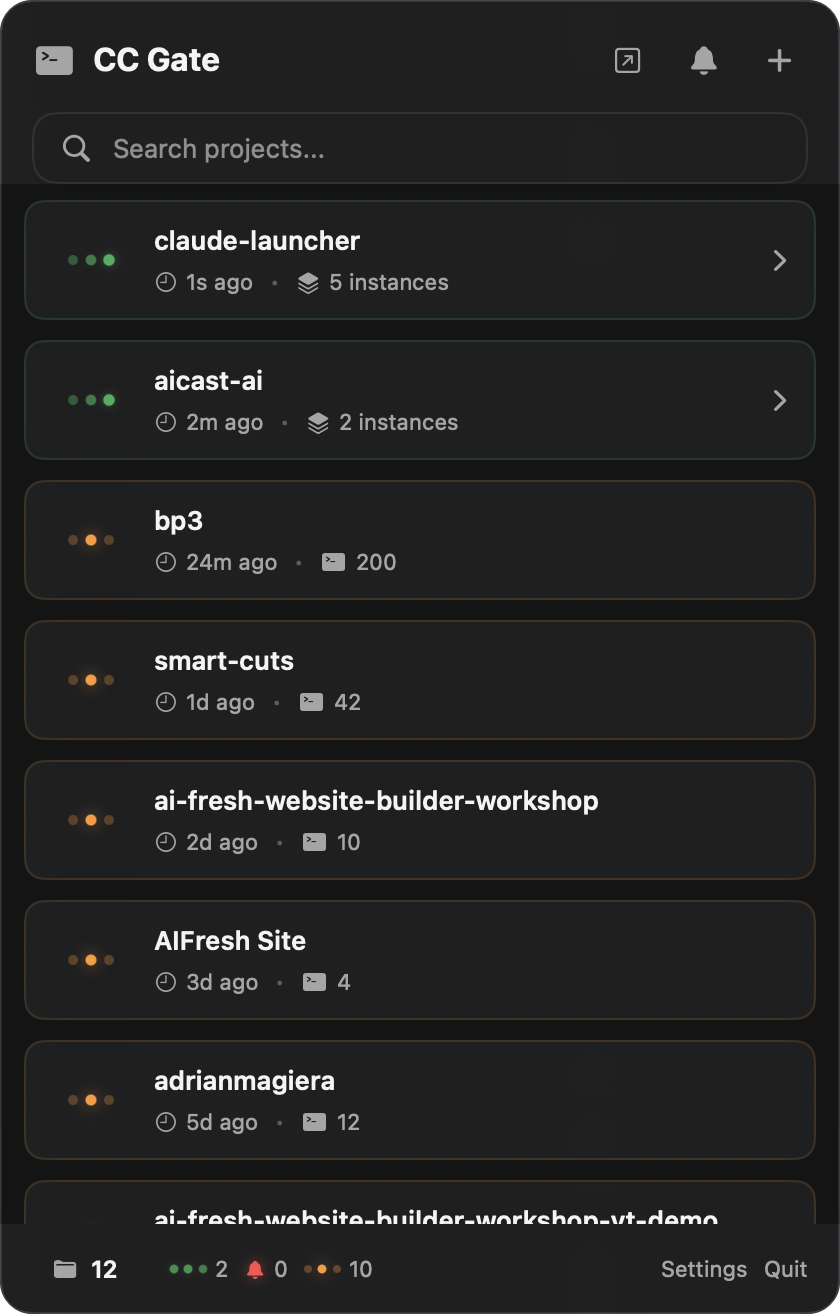
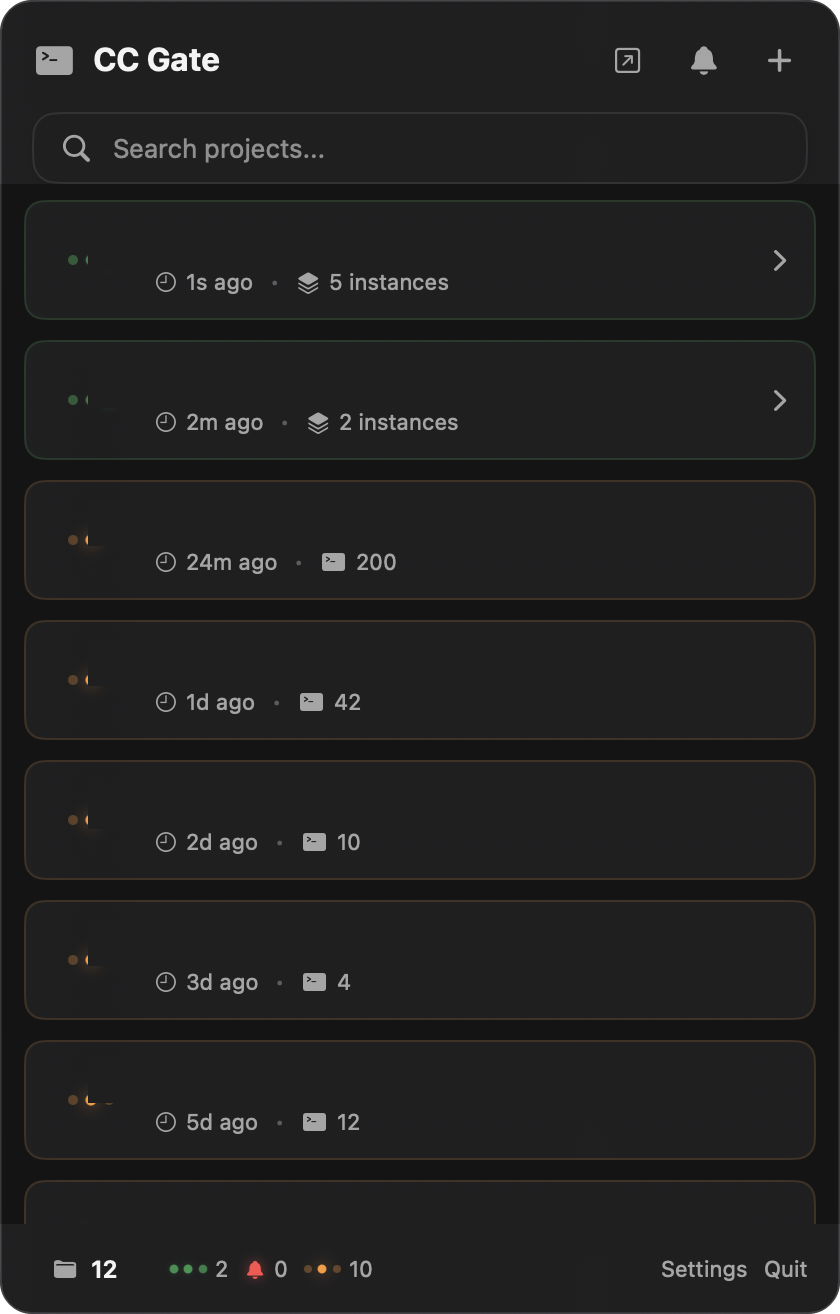
docs: censor project names in screenshot and fix status indicator descriptions
- Blank out all project names in popup-projects.png screenshot
- Fix Orange dot: was "waiting for you", now correctly described as Idle
- Replace Gray dot card with Red bell card (waiting for approval)

diff --git a/docs/features/status-indicators.html b/docs/features/status-indicators.html
@@ -261,18 +261,18 @@
             <div class="status-card">
                 <div class="status-dot-large status-dot-waiting"></div>
                 <div class="status-card-content">
-                    <h3>Orange — Claude is waiting for you</h3>
-                    <div class="status-card-meta">Claude has paused and needs your input or permission</div>
-                    <p>This means Claude has stopped and is waiting for something from you. It could be a permission request (like "can I run this command?") or a question Claude is asking you directly. If you have <a href="auto-accept.html">Auto-Accept</a> turned on for that type of action, CC Gate will handle it automatically and the dot will go back to green.</p>
+                    <h3>Orange — Idle</h3>
+                    <div class="status-card-meta">Claude Code session is open, but nothing is running right now</div>
+                    <p>A Claude Code session is active in this project, but Claude is not doing anything at the moment. This is the resting state between tasks — you'll see it after Claude finishes a task and is waiting for your next message.</p>
                 </div>
             </div>
 
             <div class="status-card">
-                <div class="status-dot-large status-dot-idle"></div>
+                <div style="width:20px;height:20px;flex-shrink:0;margin-top:4px;display:flex;align-items:center;justify-content:center;font-size:18px;">🔔</div>
                 <div class="status-card-content">
-                    <h3>Gray — no active session</h3>
-                    <div class="status-card-meta">Claude Code is not currently running in this project</div>
-                    <p>The project has history in CC Gate, but no Claude session is open right now. This is the normal state for most projects most of the time. You'll see all your projects go gray when you close Claude Code.</p>
+                    <h3>Red bell — waiting for your approval</h3>
+                    <div class="status-card-meta">Claude needs you to approve something before it can continue</div>
+                    <p>A red notification bell appears when Claude is blocked waiting for your response — for example a permission request ("can I run this command?"), a plan that needs your sign-off, or a direct question. Click the project to see the pending request and respond. If you have <a href="auto-accept.html">Auto-Accept</a> enabled for that action type, CC Gate handles it automatically.</p>
                 </div>
             </div>
 
